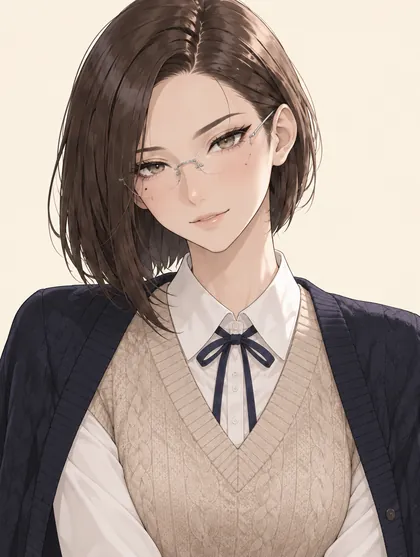
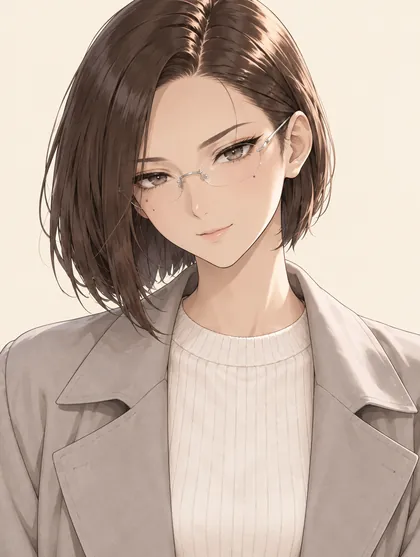
서하린 대학생 시절 그림을 교복풍에서 일상 캠퍼스 사복(니트·트렌치·슬랙스)으로 교체
Claude-Session: https://claude.ai/code/session_01PA4WqGbsVBPG7wjJTt1QyA

diff --git a/index.html b/index.html
@@ -331,7 +331,7 @@ h1,h2,h3,.wordmark,.hud-line b,.sh-head b,.wizq h2,input[type=text]{font-family:
    <button class="btn blue" id="b-new">새로 시작</button>
    <button class="btn ghost sm" id="b-slots" style="display:none;background:rgba(255,255,255,.8)">저장 슬롯 불러오기</button>
    <button class="btn ghost sm" id="b-cont" style="display:none;background:rgba(255,255,255,.8)">이어하기</button>
-   <div class="note">저장은 이 기기에만 보관돼요. · 빌드 #37 · 2026.10.11</div>
+   <div class="note">저장은 이 기기에만 보관돼요. · 빌드 #38 · 2026.10.11</div>
   </div>
  </section>
  <section id="setup" class="screen">
@@ -369,7 +369,7 @@ h1,h2,h3,.wordmark,.hud-line b,.sh-head b,.wizq h2,input[type=text]{font-family:
  <section id="end" class="screen"></section>
  <div id="act" class="actcard"></div>
  <div id="ev" class="evcard"></div>
- <div id="buildtag">빌드 #37 · 2026.10.11</div>
+ <div id="buildtag">빌드 #38 · 2026.10.11</div>
  <div class="ov" id="ov"><div class="sheet" id="sheet"></div></div>
 </div>
 <script>// ==ENGINE== 순수 게임 로직 (DOM 금지: sim.mjs가 이 파일들을 그대로 실행한다)
@@ -3470,7 +3470,7 @@ function initGame(){
   $('btn-advice').onclick = () => { if($('dialog').hidden) showDialog(); else $('dialog').hidden = true; };
   $('dlg-x').onclick = () => { $('dialog').hidden = true; };
   document.querySelectorAll('[data-sheet]').forEach(b => b.onclick = () => ({stat:showStats, career:showCareer, love:showLove, dex:showDex, shop:showShop}[b.dataset.sheet])());
-  $('b-menu').onclick = () => { openSheet(sheetHead('메뉴') + `<div class="menu-list"><button class="btn ghost sm" id="m-update">🔄 새 버전 확인</button><button class="btn ghost sm" id="m-slots">💾 저장 · 불러오기 (슬롯 5개)</button><button class="btn ghost sm" id="m-title">🏠 타이틀로 (자동 저장)</button></div><div class="foot">빌드 #37 · 2026.10.11<br><span id="diag"></span></div>`);
+  $('b-menu').onclick = () => { openSheet(sheetHead('메뉴') + `<div class="menu-list"><button class="btn ghost sm" id="m-update">🔄 새 버전 확인</button><button class="btn ghost sm" id="m-slots">💾 저장 · 불러오기 (슬롯 5개)</button><button class="btn ghost sm" id="m-title">🏠 타이틀로 (자동 저장)</button></div><div class="foot">빌드 #38 · 2026.10.11<br><span id="diag"></span></div>`);
     $('x').onclick = closeSheet;
     try{ const pr = document.createElement('div'); pr.style.cssText = 'position:fixed;left:0;bottom:0;padding-bottom:env(safe-area-inset-bottom);padding-top:env(safe-area-inset-top);visibility:hidden'; document.body.appendChild(pr); const cs = getComputedStyle(pr), sb = cs.paddingBottom, st = cs.paddingTop; pr.remove(); const sa = window.navigator.standalone === true || matchMedia('(display-mode: standalone)').matches; $('diag').textContent = `화면 ${innerWidth}×${innerHeight} · 기기 ${screen.width}×${screen.height} · 안전영역 위 ${st}/아래 ${sb} · ${sa ? '홈 화면 앱' : '브라우저'}`; }catch(e){}
     $('m-update').onclick = () => checkUpdate(true);
@@ -3498,7 +3498,7 @@ function fitFull(){
 fitFull(); addEventListener('resize', fitFull); addEventListener('orientationchange', () => setTimeout(fitFull, 300)); setTimeout(fitFull, 600);
 
 // ── 새 버전 확인: 사파리는 페이지를 몇 분간 기억해 두므로, 서버의 빌드 번호와 비교해 알려 준다 ──
-const BUILD_NO = parseInt(('#37 · 2026.10.11'.match(/#(\d+)/) || [0, 0])[1], 10);
+const BUILD_NO = parseInt(('#38 · 2026.10.11'.match(/#(\d+)/) || [0, 0])[1], 10);
 async function checkUpdate(manual){
   try{
     const r = await fetch(location.pathname + '?_=' + Date.now(), {cache:'no-store'}); const txt = await r.text();

diff --git a/sw.js b/sw.js
@@ -1,5 +1,5 @@
 // 자동 생성 파일 (build.mjs). 직접 수정하지 마세요.
-const CACHE = 'rewind-ten-bb07ae21f7';
+const CACHE = 'rewind-ten-62aa3f04e2';
 const CORE = ["./","index.html","manifest.json","icon-192.png","icon-512.png","art/cover.webp","art/age20.webp","art/age22.webp","art/act_study.webp","art/act_cafe.webp","art/act_rest.webp","art/act_friends.webp","art/face_happy.webp","art/face_tired.webp"];
 self.addEventListener('install', e => { e.waitUntil(caches.open(CACHE).then(c => c.addAll(CORE)).then(() => self.skipWaiting())); });
 self.addEventListener('activate', e => { e.waitUntil(caches.keys().then(ks => Promise.all(ks.filter(k => k.startsWith('rewind-ten-') && k !== CACHE).map(k => caches.delete(k)))).then(() => self.clients.claim())); });
